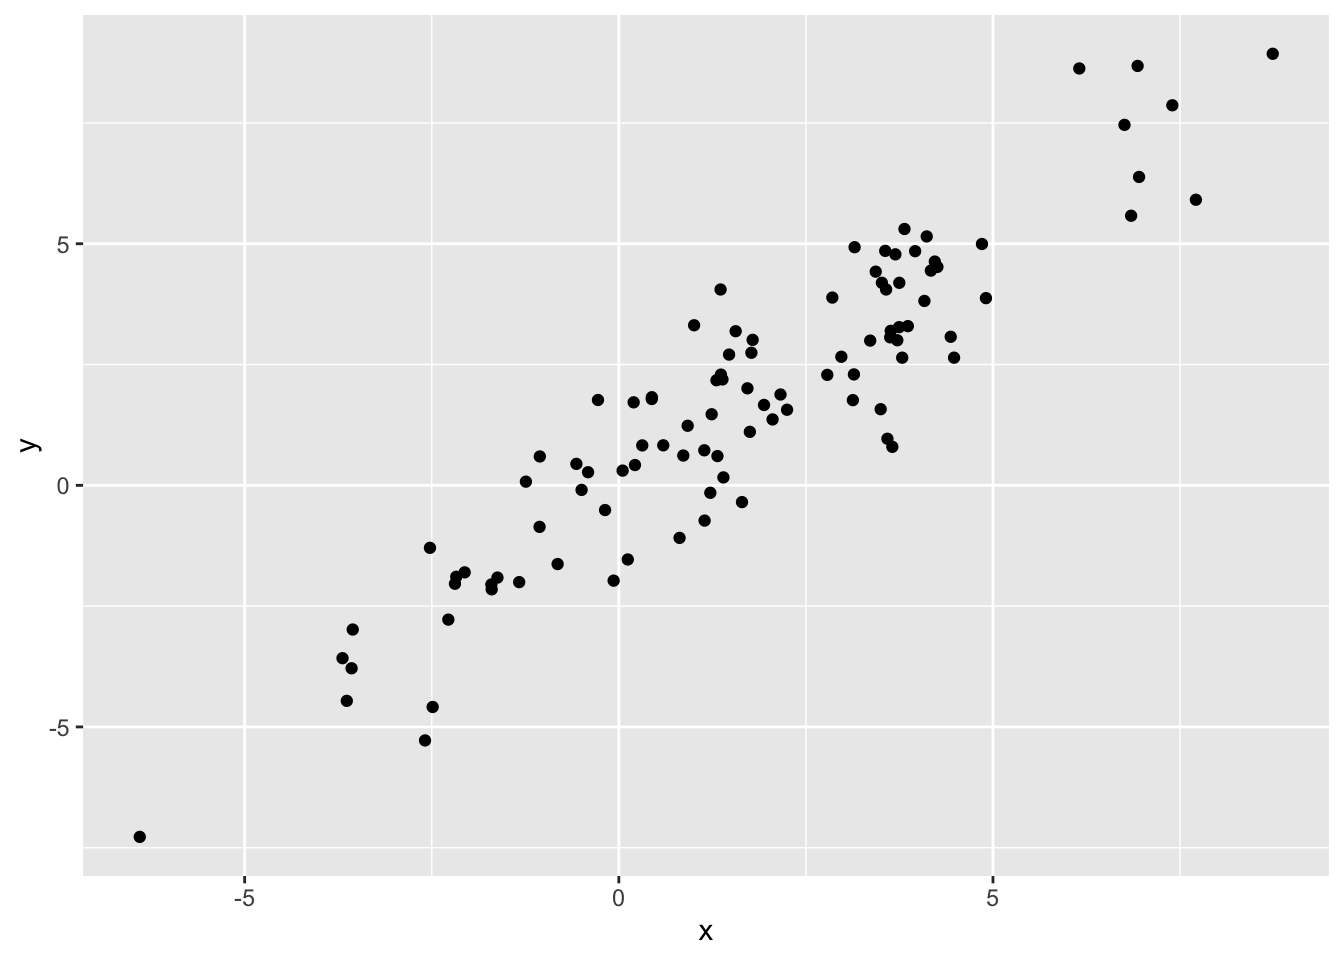
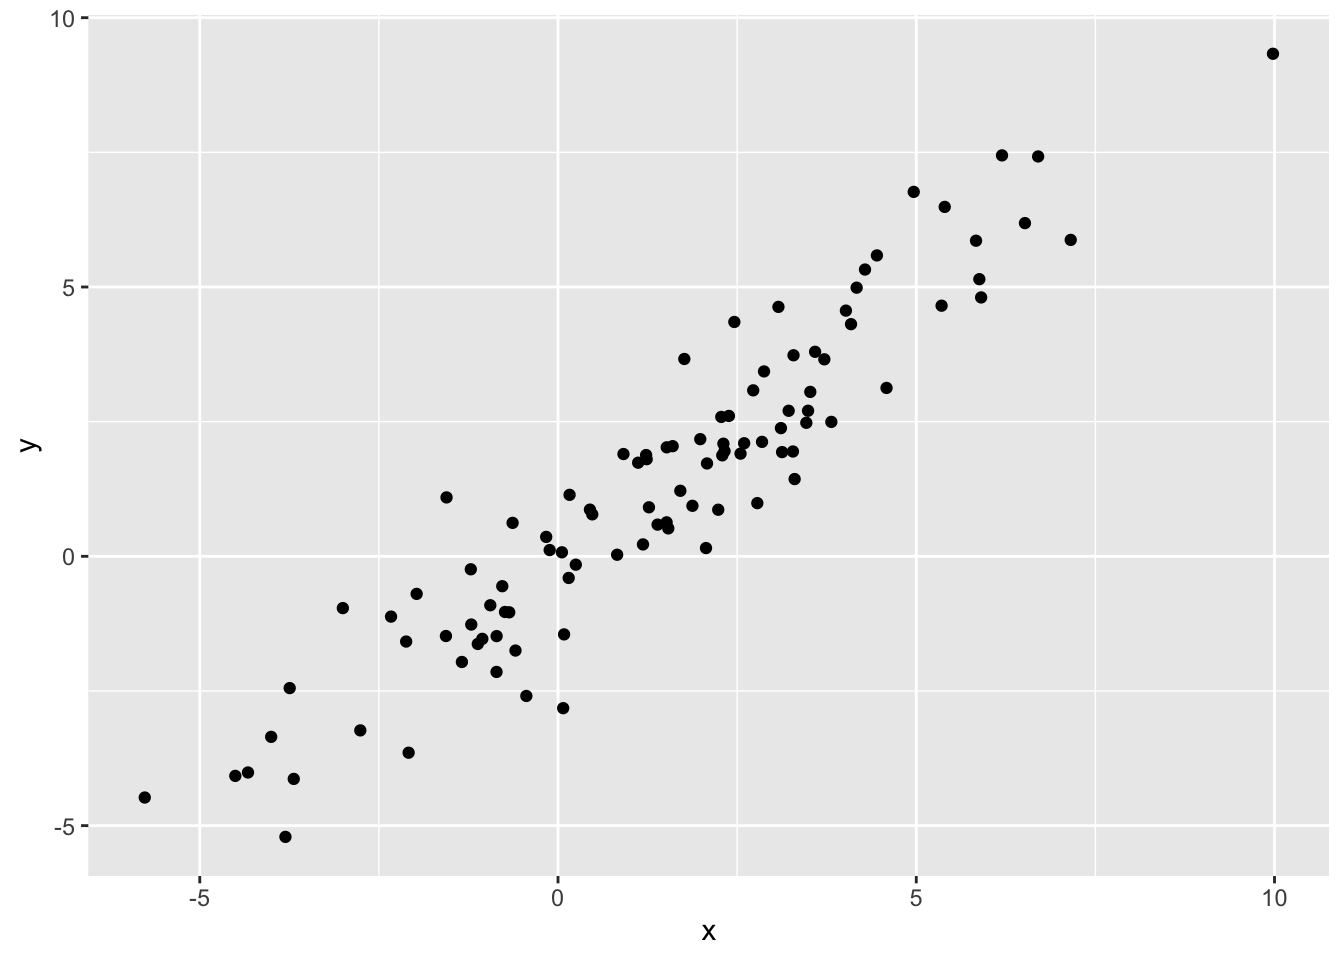
Finalizing website

diff --git a/index.html b/index.html
@@ -367,6 +367,8 @@ href="https://p8105.com">P8105</a></p>
 page</p>
 <p>Can reopen, Build tab should show up, press build website instead of
 knitting files one at a time</p>
+<p>If you want to add/change website stuff, go to course website github
+site yml and use that formatting stuff.</p>
 </div>
 
 
